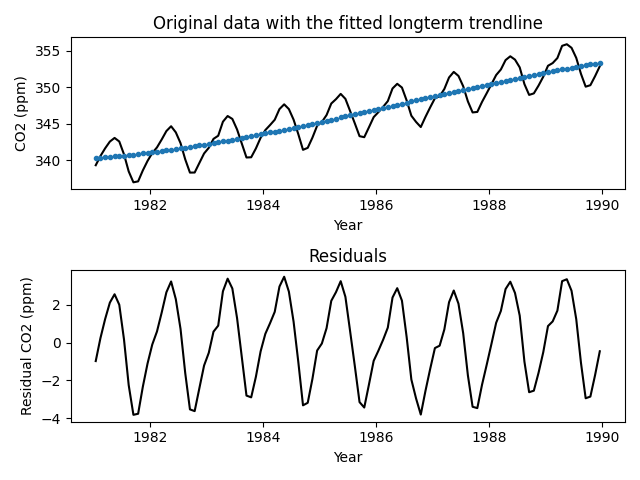
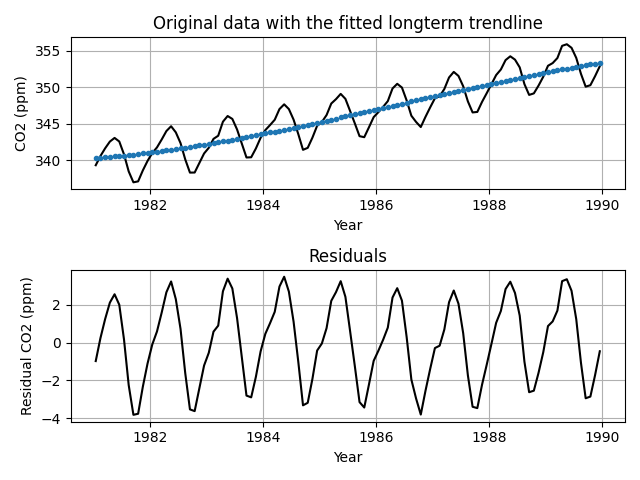
Plot formatting/final edits
- Added grids to all plots for scale and aesthetic appeal
- Saved new versions of figures with grids included
- Added original data with of model data because I think that's what is being requested in the lab manual

diff --git a/CormierNathan_Lab12.py b/CormierNathan_Lab12.py
@@ -38,6 +38,7 @@ plt.xlabel('Year')
 plt.ylabel('CO2 (ppm)')
 plt.title('Average ppm CO2 from 1981 to 1990 (exclusive)')
 plt.plot(t_axis,y_axis_CO2,'-',c='k')
+plt.grid()
 plt.show()
 
 # 1b) (SEE PAGE 137)
@@ -83,6 +84,8 @@ ax2.plot(t_axis,residuals,'-',c='k')
 
 # fixes layout issue, stops plots from having overlapping titles
 fig.tight_layout()
+ax1.grid()
+ax2.grid()
 plt.show()
 
 #--------------------------------------------------#
@@ -132,7 +135,8 @@ plt.plot(t_axis,residuals,'-',t_axis,sin_fit_tANDe,'-.')
 plt.title('Residual CO2 data with overlayed estimated sinusoidal fit curve')
 plt.xlabel('Year')
 plt.ylabel('Residual CO2 (ppm)')
-plt.legend(['Residual CO2 data','Estimated sin fit curve'])
+plt.legend(['Residual CO2 data','Estimated sin fit curve'],loc=0)
+plt.grid()
 plt.show()
 
 # Since the trial and error sinusoid fits the residuals plot quite well, there is no indication
@@ -184,10 +188,12 @@ sin_fit_all = sinusoid(t_axisall,args_tANDe)
 complete_model = sin_fit_all + poly_fit_all_use
 
 # plotting code to generate plot of modeled CO2 concentrations over time
-plt.plot(t_axisall,complete_model,'-',c='k')
+plt.plot(t_axisall,complete_model,'-',t_axisall,y_axis_CO2all,'--')
 plt.xlabel('Year')
-plt.ylabel('Projected concentration of CO2 (ppm)')
-plt.title('Proposed time-model of atmospheric CO2 concentration (ppm)')
+plt.ylabel('Atmospheric CO2 concentration (ppm)')
+plt.title('Projected & Actual concentrations of atmospheric CO2 overtime')
+plt.grid()
+plt.legend(['Projected Concentration','Actual Concentration'],loc=0)
 plt.show()
     
 # finding the point in time where the projected CO2 concentration is closest to 400 ppm
